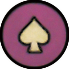
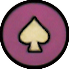
优化地点图标居中点对齐问题

diff --git a/Card.py b/Card.py
@@ -1053,7 +1053,7 @@ class Card:
         im = self.image_manager.get_image(f'地点标识-{icon}')
         if index == 0:
             self.paste_image(self.image_manager.get_image(f'地点标识-标识底'), (15, 8), 'contain')
-            self.paste_image(im, (21, 14), 'contain')
+            self.paste_image(im, (21, 14, 70, 70), 'contain')
         elif 0 < index < 7:
             self.paste_image(im, link_position[index - 1], 'contain')
 
